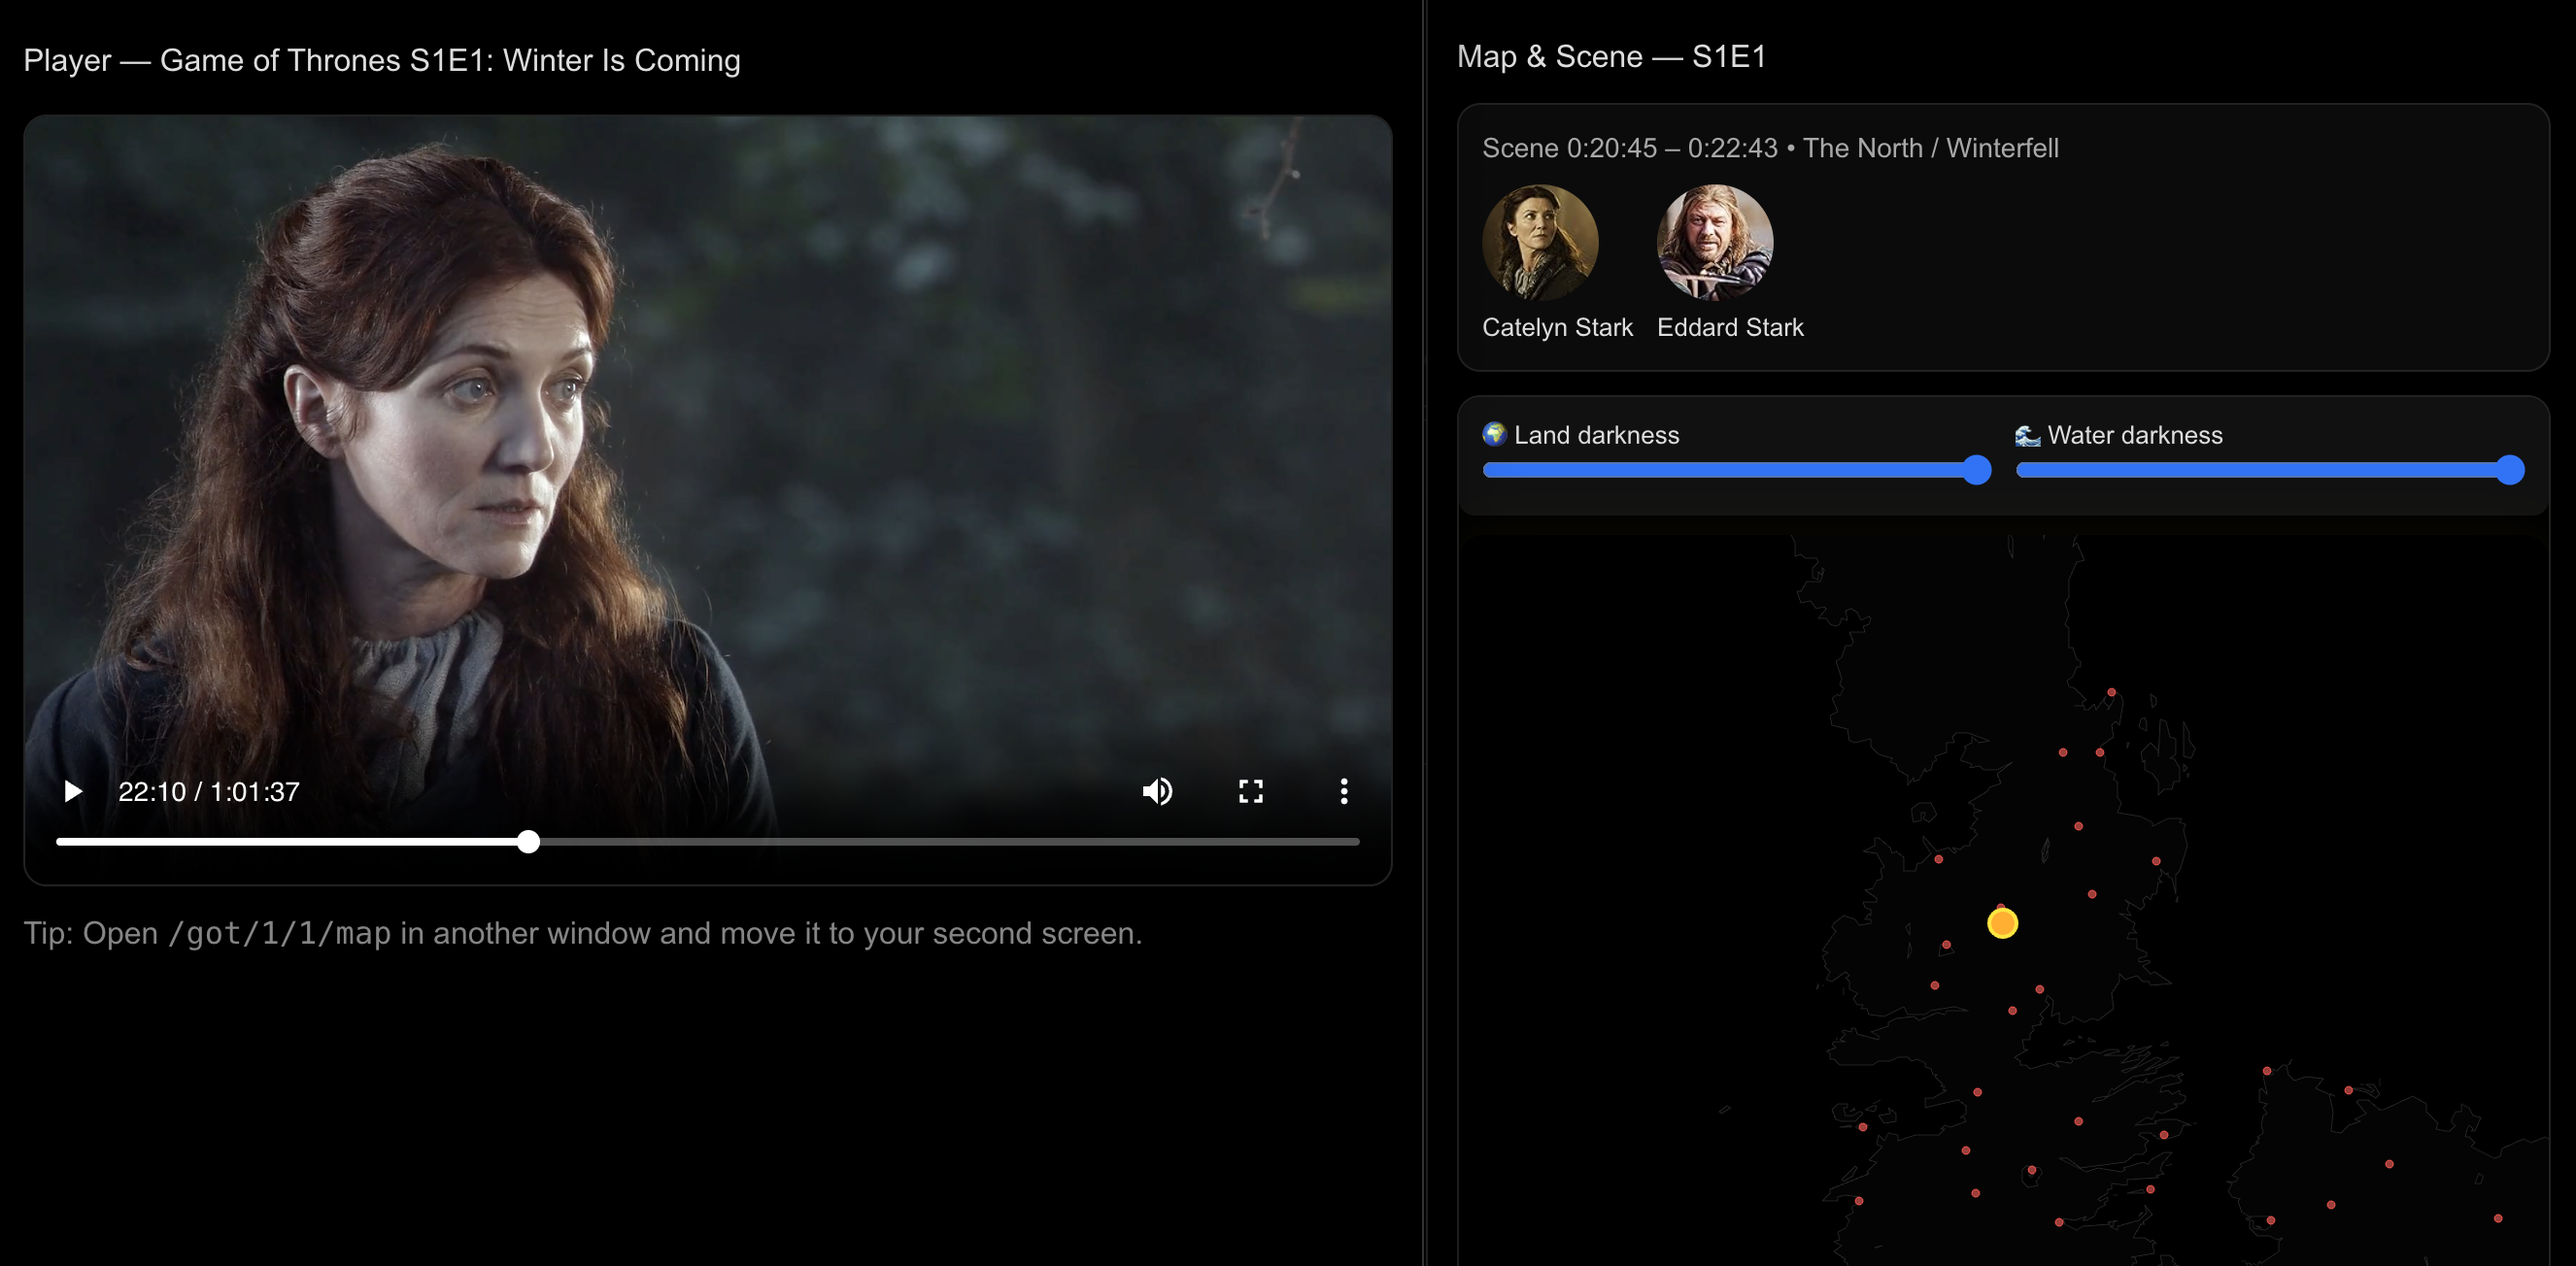
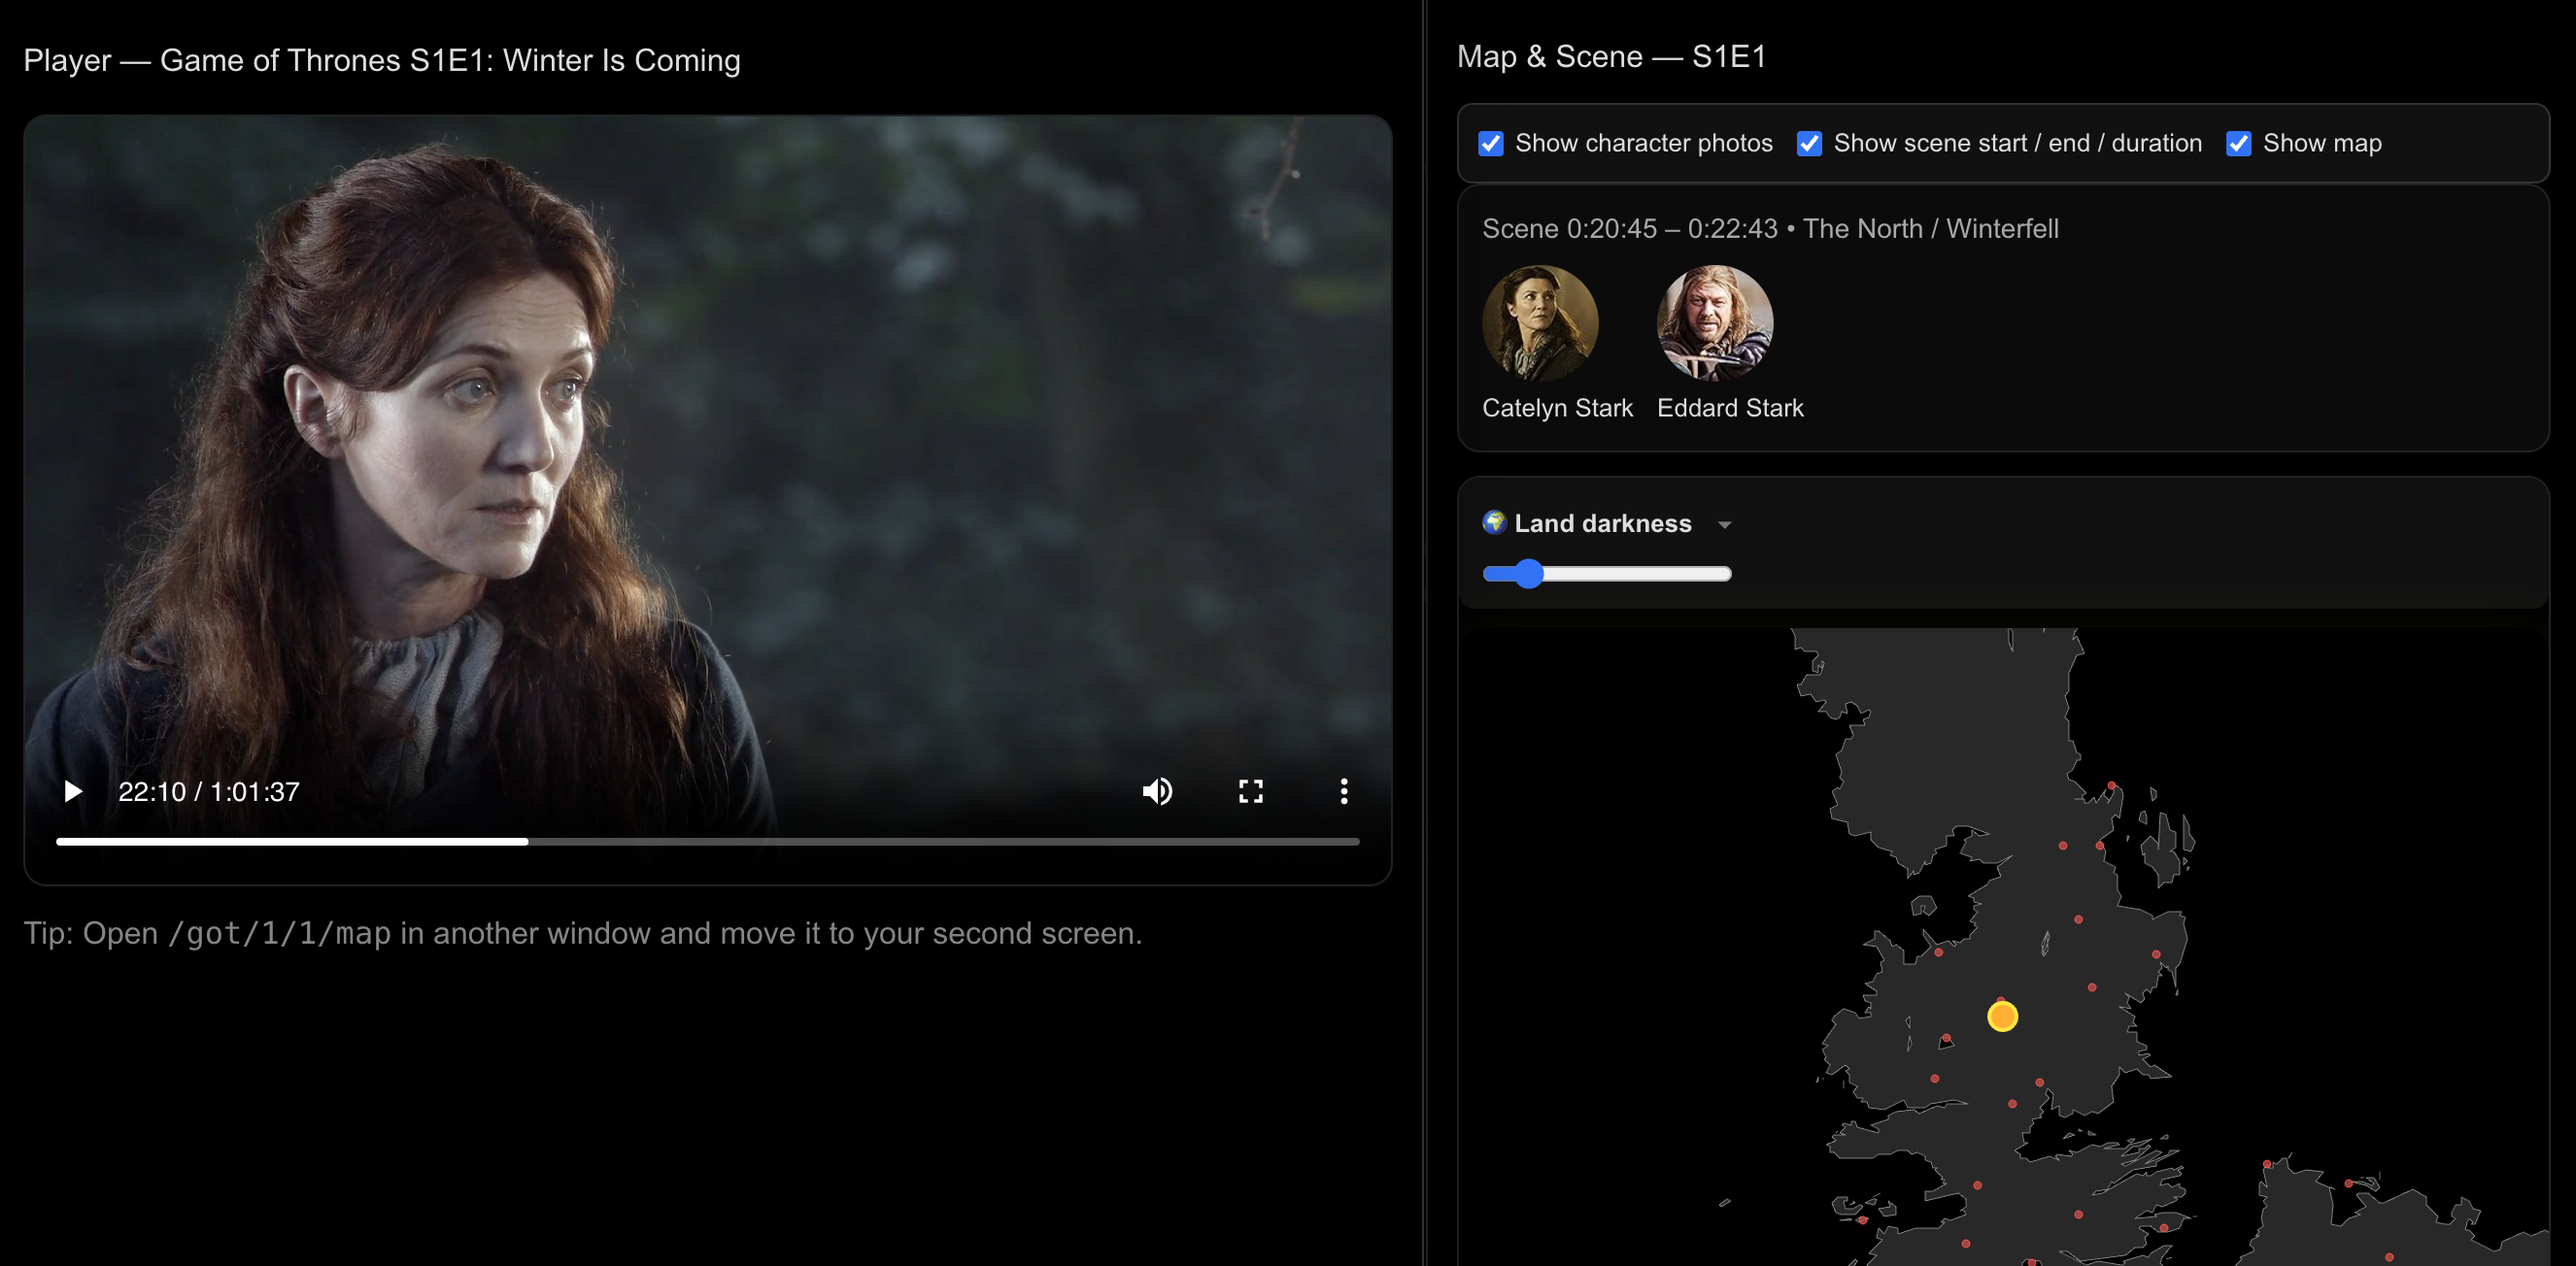
Improved filters and land color

Changed region(s): [[0.6802, 0.4908, 0.9894, 1.0], [0.5566, 0.092, 0.9894, 0.4601], [0.1855, 0.6442, 0.2164, 0.6748]]

diff --git a/src/pages/got/[season]/[episode]/map.tsx b/src/pages/got/[season]/[episode]/map.tsx
@@ -25,6 +25,11 @@ export default function MapOnlyPage() {
   const [currentScene, setCurrentScene] = useState<Scene | null>(null);
   const [currentTime, setCurrentTime] = useState(0);
 
+  // Visibility toggles
+  const [showPhotos, setShowPhotos] = useState(true);
+  const [showSceneDetails, setShowSceneDetails] = useState(true);
+  const [showMap, setShowMap] = useState(true);
+
   const s = useMemo(() => Number(season ?? 0), [season]);
   const e = useMemo(() => Number(episode ?? 0), [episode]);
 
@@ -107,6 +112,48 @@ export default function MapOnlyPage() {
         Map & Scene — S{s}E{e}
       </h1>
 
+      {/* ⚙ Display settings */}
+      <div
+        style={{
+          display: 'flex',
+          flexWrap: 'wrap',
+          gap: 12,
+          padding: 10,
+          border: '1px solid #333',
+          borderRadius: 8,
+          background: '#111',
+          color: '#ddd',
+          fontSize: 13,
+        }}
+      >
+        <label style={{ display: 'flex', alignItems: 'center', gap: 6 }}>
+          <input
+            type="checkbox"
+            checked={showPhotos}
+            onChange={() => setShowPhotos(!showPhotos)}
+          />
+          Show character photos
+        </label>
+
+        <label style={{ display: 'flex', alignItems: 'center', gap: 6 }}>
+          <input
+            type="checkbox"
+            checked={showSceneDetails}
+            onChange={() => setShowSceneDetails(!showSceneDetails)}
+          />
+          Show scene start / end / duration
+        </label>
+
+        <label style={{ display: 'flex', alignItems: 'center', gap: 6 }}>
+          <input
+            type="checkbox"
+            checked={showMap}
+            onChange={() => setShowMap(!showMap)}
+          />
+          Show map
+        </label>
+      </div>
+
       {/* Current scene header */}
       <div
         style={{
@@ -118,24 +165,30 @@ export default function MapOnlyPage() {
           background: '#0b0b0b'
         }}
       >
-        <div style={{ fontSize: 14, opacity: 0.75 }}>
-          {currentScene
-            ? `Scene ${currentScene.sceneStart} – ${currentScene.sceneEnd} • ${currentScene.location}${currentScene.subLocation ? ' / ' + currentScene.subLocation : ''}`
-            : 'Waiting for player… open the Player tab and start playback.'}
-        </div>
+        {showSceneDetails && (
+          <div style={{ fontSize: 14, opacity: 0.75 }}>
+            {currentScene
+              ? `Scene ${currentScene.sceneStart} – ${currentScene.sceneEnd} • ${currentScene.location}${currentScene.subLocation ? ' / ' + currentScene.subLocation : ''}`
+              : 'Waiting for player… open the Player tab and start playback.'}
+          </div>
+        )}
 
-        <SceneInfo
-          sceneLocation={currentScene?.location}
-          characters={currentScene?.characters ?? []}
-          charactersIndex={charactersIndex}
-          showPhotos={true} // you can wire this to your checkboxes
-        />
+        {showPhotos && (
+          <SceneInfo
+            sceneLocation={currentScene?.location}
+            characters={currentScene?.characters ?? []}
+            charactersIndex={charactersIndex}
+            showPhotos={true} // you can wire this to your checkboxes
+          />
+        )}
       </div>
 
       {/* Map */}
-      <div style={{ marginTop: 12, border: '1px solid #222', borderRadius: 12, overflow: 'hidden' }}>
-        <MapView center={center} label={currentScene?.subLocation || currentScene?.location || '—'} />
-      </div>
+      {showMap && (
+        <div style={{ marginTop: 12, border: '1px solid #222', borderRadius: 12, overflow: 'hidden' }}>
+          <MapView center={center} label={currentScene?.subLocation || currentScene?.location || '—'} />
+        </div>
+      )}
     </div>
   );
 }

diff --git a/src/components/MapView.tsx b/src/components/MapView.tsx
@@ -31,10 +31,11 @@ const DynamicMap = dynamic(
       const showMarker = !!center
 
       // derive colors based on sliders (0–1)
-      const landBase = Math.floor(20 * landDarkness)
+      const landBase = Math.floor(255 * landDarkness)
       const fillColor = `rgb(${landBase}, ${landBase}, ${landBase})`
       const borderColor = `rgb(${30 + landBase}, ${30 + landBase}, ${30 + landBase})`
-      const waterBg = `rgb(${Math.floor(10 * waterDarkness)}, ${Math.floor(10 * waterDarkness)}, ${Math.floor(10 * waterDarkness)})`
+      const waterBase = Math.floor(0 * waterDarkness)
+      const waterBg = `rgb(${waterBase}, ${waterBase}, ${waterBase})`
 
       return (
         <div
@@ -67,7 +68,7 @@ const DynamicMap = dynamic(
                 color: borderColor,
                 weight: 0.5,
                 fillColor,
-                fillOpacity: 1
+                fillOpacity: 0.5
               })}
             />
 
@@ -137,6 +138,7 @@ export default function MapView({ center, label }: Props) {
   const [placesData, setPlacesData] = useState<any>(null)
 
   // new state for customization
+  const [showLand, setShowLand] = useState(false)
   const [landDarkness, setLandDarkness] = useState(1)
   const [waterDarkness, setWaterDarkness] = useState(1)
 
@@ -171,31 +173,40 @@ export default function MapView({ center, label }: Props) {
           fontSize: 13,
         }}
       >
-        <label style={{ flex: 1 }}>
-          🌍 Land darkness
-          <input
-            type="range"
-            min="0.3"
-            max="1"
-            step="0.05"
-            value={landDarkness}
-            onChange={(e) => setLandDarkness(parseFloat(e.target.value))}
-            style={{ width: '100%' }}
-          />
-        </label>
 
-        <label style={{ flex: 1 }}>
-          🌊 Water darkness
-          <input
-            type="range"
-            min="0.3"
-            max="1"
-            step="0.05"
-            value={waterDarkness}
-            onChange={(e) => setWaterDarkness(parseFloat(e.target.value))}
-            style={{ width: '100%' }}
-          />
-        </label>
+        {/* LAND */}
+        <div style={{ display: 'flex', flexDirection: 'column', gap: 4 }}>
+          <button
+            onClick={() => setShowLand((prev) => !prev)}
+            style={{
+              display: 'flex',
+              justifyContent: 'space-between',
+              alignItems: 'center',
+              background: 'none',
+              border: 'none',
+              color: '#ddd',
+              fontWeight: 600,
+              cursor: 'pointer',
+              padding: '4px 0',
+            }}
+          >
+            🌍 Land darkness
+            <span style={{ opacity: 0.5 }}>{showLand ? '▾' : '▸'}</span>
+          </button>
+
+          {showLand && (
+            <input
+              type="range"
+              min="0.3"
+              max="1"
+              step="0.05"
+              value={landDarkness}
+              onChange={(e) => setLandDarkness(parseFloat(e.target.value))}
+              style={{ width: '100%' }}
+            />
+          )}
+        </div>
+
       </div>
 
       {/* 🗺 Dark map */}
